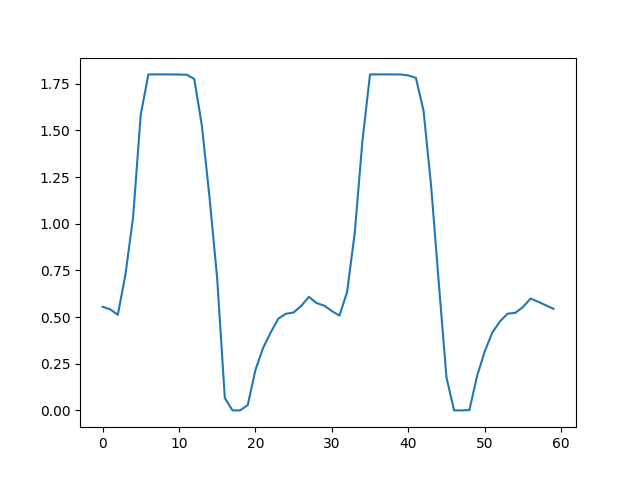
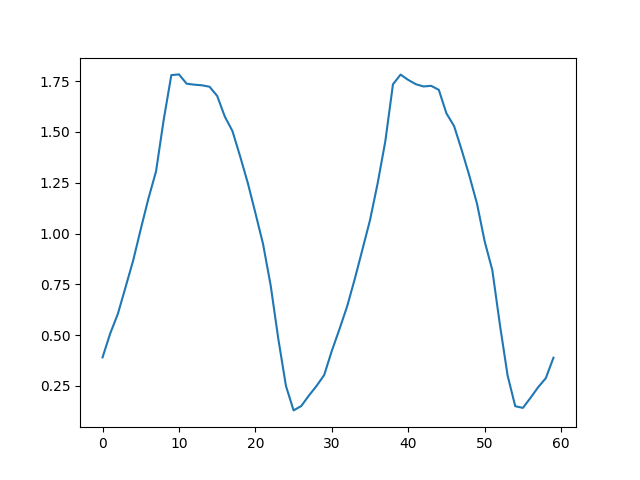
Codes and second plot

diff --git a/analogIn.py b/analogIn.py
@@ -1,0 +1,26 @@
+import Adafruit_BBIO.ADC as ADC
+from time import time, sleep
+
+ADC.setup()
+pin = "P9_37"
+hz = 1800
+old = time()
+a = []
+
+while(True):
+    i = 0
+    while(i < 60):
+        now = time()
+        if(now - old >= 1/hz):
+            old = now
+            now = time()
+
+            raw = ADC.read(pin)
+            volt = raw*1.8
+            a.append(volt)
+            i+=1
+    with open('voltage.csv', 'a') as f:
+        for v in a:
+            f.write(str(v)+"\n")
+    a = []
+    sleep(60)

diff --git a/plot.py b/plot.py
@@ -1,0 +1,7 @@
+from matplotlib import pyplot as plt
+import pandas as pd
+
+data = pd.read_csv("voltage.csv", header=None)
+x = list(range(0, 60, 1))
+plt.plot(x, data)
+plt.savefig('plot.png')
